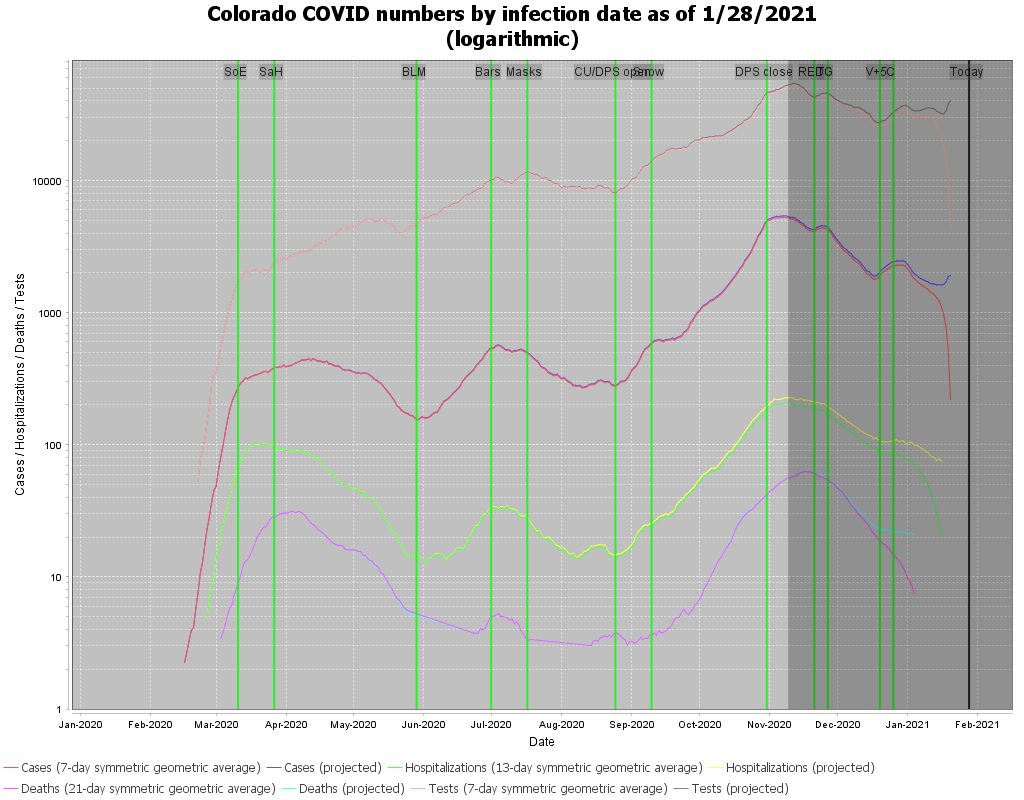
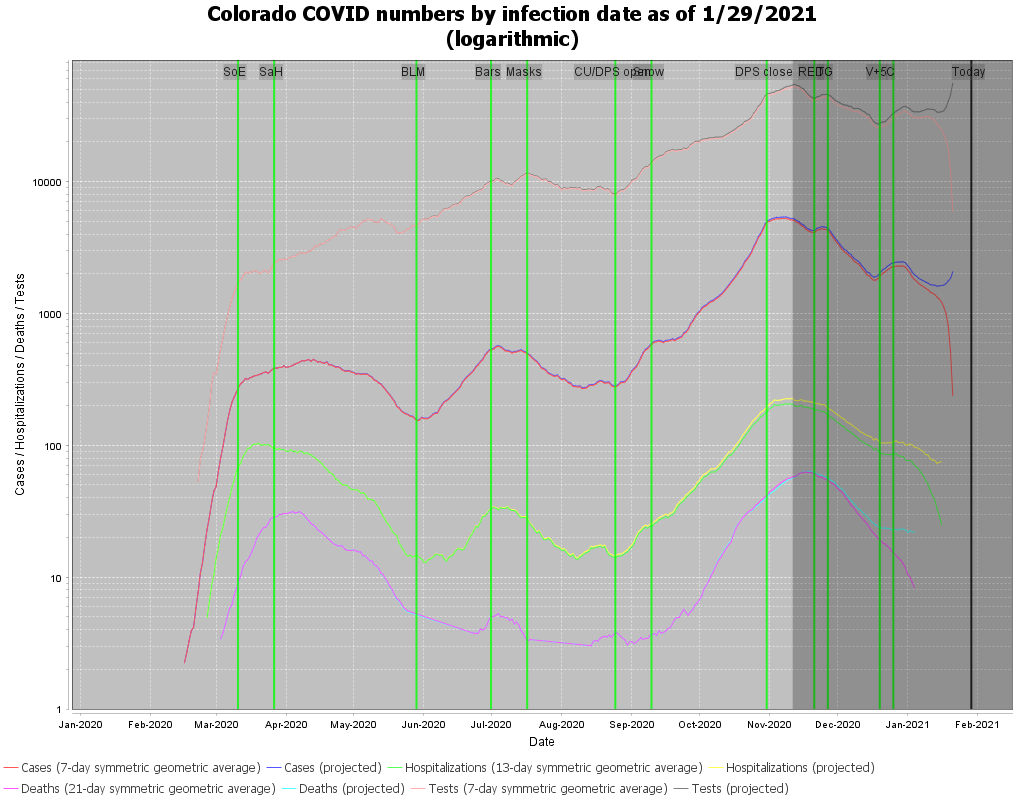
1-29, and reproductive rates

diff --git a/README.md b/README.md
@@ -11,6 +11,8 @@ Charts from Colorado's COVID data
 
 ![Positivity by infection day](https://raw.githubusercontent.com/jasondorjeshort/CovidColoradoCharts/main/Positivity-infection.png)
 
+![Reproductive rate](https://raw.githubusercontent.com/jasondorjeshort/CovidColoradoCharts/main/R.png)
+
 # Simple Explanation
 
 To track true epdidemic data, we'd like to look at data by day of infection.  Most sources only give numbers by day of public release, but this can be delayed by days, weeks, or even up to a year.  This data appears to be "up to date", but each value is just a snapshot created as a linear combination of values from a range of dates in the past: it's being obfuscated!  Colorado is unusual in that the state tracks most numbers by day of symptom onset, and by subtracting 5 days we can estimate day of infection.  This may be both imprecise and incomplete, but it is a better estimate of epidemic data than is available in any other way.
@@ -34,6 +36,8 @@ Read on at your mathematical peril.  CDPHE gives us data archives for each day, 
 If we track a day of infection through its consecutive days of data, we (usually) see it increasing.  For example, through days 0 through 5 after infection it may remain at 0.  Then it jumps to 5, then 10 (x2), then 30 (x3), then 100 (x3.3), then 120 (x1.2), then 140 (x1.17), and so on.  This exemplifies the delay between infection (or any other incomplete metric) and data: for each number of days of delay and each day of data, we have a multiplicative ratio (also a 3-dimensional data set).  What I do is track the ratio for each "delay" value, and take a moving average of those daily numbers.  To be precise, I use a Kalman geometric average with (basically arbitrary) weighting 14+delay for each day.  At the end, final projections can be found by muliplying together all of these ratios for each incomplete day.
 
 Estimating test numbers by infection day is a completely unrelated calculation.  A negative test certainly has no onset/infection day, but to find positivity by onset/infection day we have to estimate one. To put it most simply: for each new day of data, the tests are distributed to an onset/infection day using the same distribution as the cases for that day-of-data have.   More technically, on each day of data, new cases are added for each day of infection, and new tests are added as just a single total for the day. A positivity value for that day of data can easily be calculated, and dividing the number of new cases for each day of infection by that positivity can give us an estimate of the tests for that day of infection.  This test value by itself isn't particularly noteworthy, though it is important that the total number of tests is not changed by this algorithm - we're simply moving from them around from the day of data to the day of infection.
+
+Once this is all done, R values are trivial to calculate; the only real work is figuring out how to smooth them.  Assuming a reproductive cycle length (serial interval) of exactly 5 days, the R value is just equal to the daily growth over a 5-day period.  Smoothing is done, first using a weekly symmetric algebraic average to get the daily numbers (using a full week is essentially needed to avoid day-of-week issues where weekend numbers are much smaller, but these can still creep in during three-day weekends), then simply looking at the growth over a 5-day period.  In the final chart creation, the daily R values are geometrically smoothed over a symmetric configurable time period (currently +-10 days, but making this smaller or changing it to 0 gives some very interesting results).
 
 If you believe you should understand this explanation, but do not, I urge you to contact me with questions.  Mathematically, the workings here are intended to be intuitive and visualizable.  This is a model of how the numbers should work; there is no fitting to how they do work.  The only failure, I believe,  is that I should be tracking 95% confidence intervals rather than rolling averages.
 
